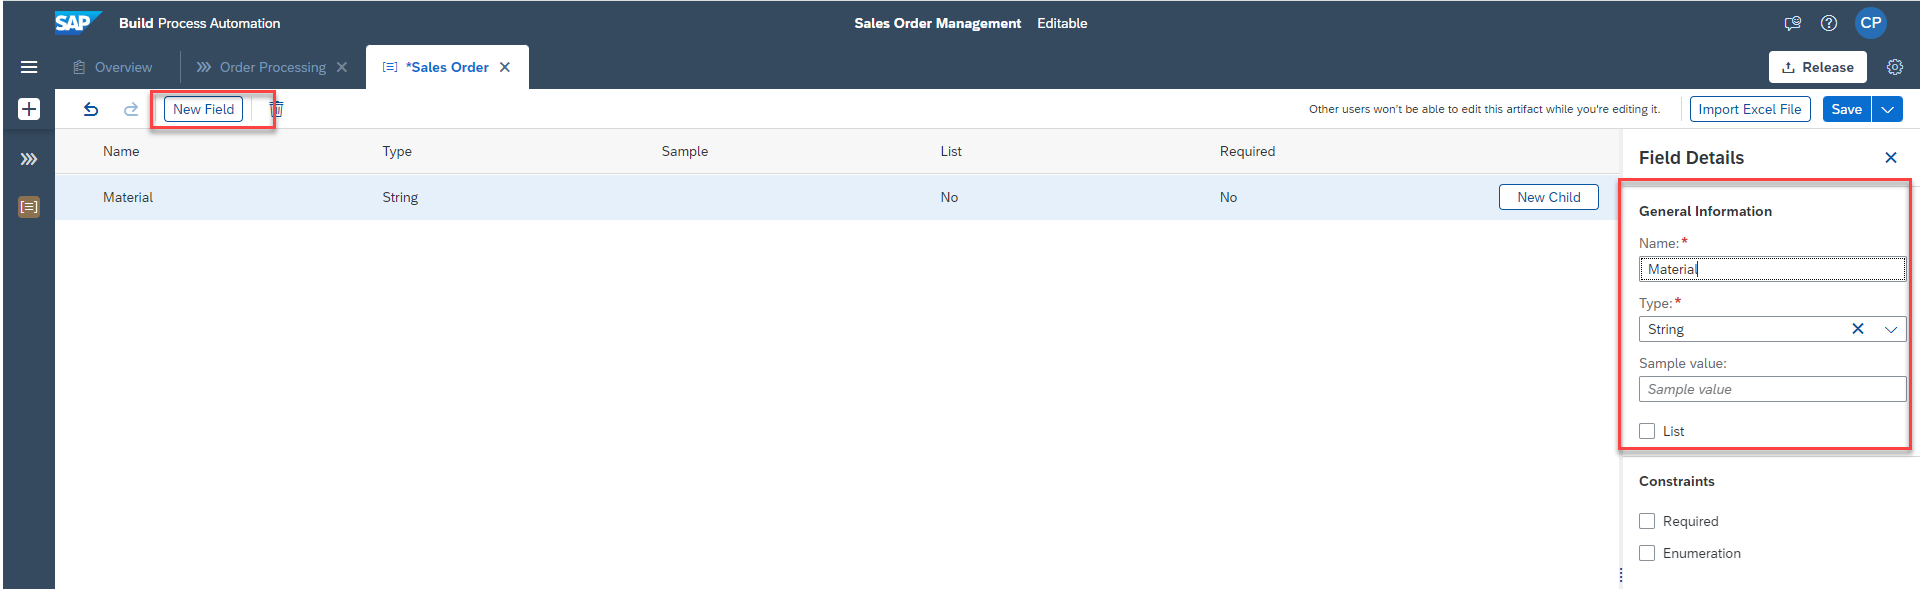
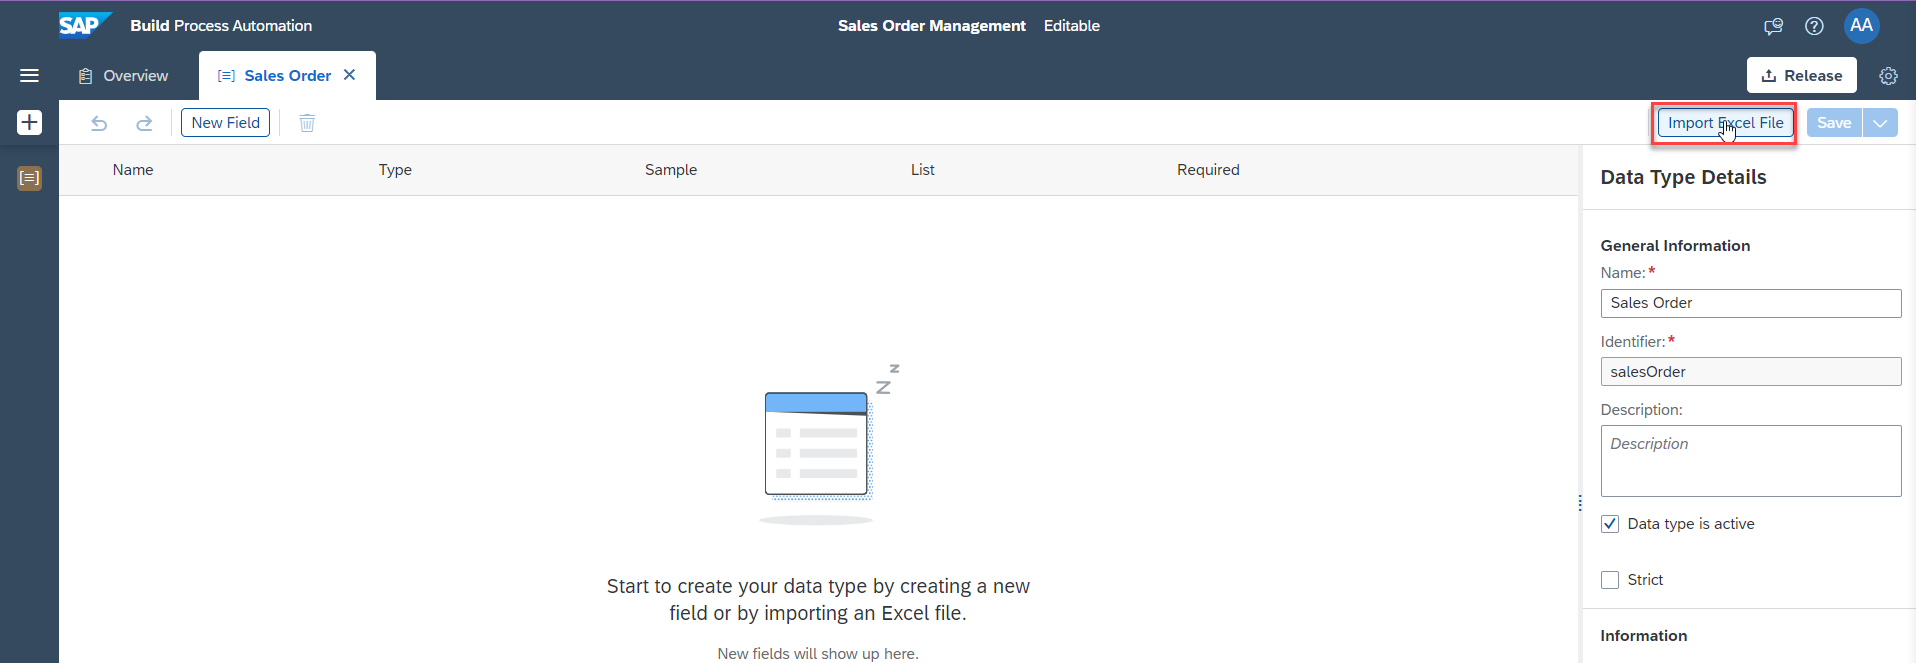
spa academy salesorder changes

diff --git a/tutorials/spa-academy-salesorder/spa-academy-salesorder.md b/tutorials/spa-academy-salesorder/spa-academy-salesorder.md
@@ -15,13 +15,13 @@ primary_tag: software-product>sap-build-process-automation
   - [Trial account](https://blogs.sap.com/2022/09/09/sap-process-automation-now-available-in-your-trail-account/) with the SAP Build Process Automation enabled **OR**
   - A regular account with [SAP BTP Free Tier](spa-subscribe-booster) service plan for SAP Build Process Automation
   - [Configure SMTP Destination](https://help.sap.com/docs/build-process-automation/sap-build-process-automation/configuring-smtp-mail-destination) to send mail notifications.
+  - Download the [this]() excel file for Sales Order datatype.
 
 
 ## You will learn
   - How to create a SAP Build Process Automation project
   - How to create a process that automates sales order creation and approval
   - How create an API trigger to integrate with any applications like SAP Build Apps, CAP etc.
-  - How to use Decisions artifact.
   - How to send an Email notification.
 
 ---
@@ -95,26 +95,18 @@ There are many use cases where you can make a difference using SAP Build Process
 
     <!-- border -->![6.1](6.1.png)
 
-3. Click on **New Field** to add new fields to the data type **Sales Order**.
+3. Click on **Import Excel File**.
 
     <!-- border -->![6.2](6.2.png)
 
+3. Click on **Browse** to select the excel file.
 
-4.  Repeat the process to add all the fields of the type as shown below.
+    <!-- border -->![6.4](6.4.png)
 
-    |  Field Name   | Type
-    |  :------------- | :-------------
-    |  `material`   | String  |
-    |  `orderAmount`     | Number |
-    |  `shipToParty`    | String|
-    |  `salesOrderType`    | String|
-    |  `salesOrganisation`    | String|
-    |  `distributionChannel`  | String|
-    |  `shippingCountry`    | String|
-    |  `expectedDeliveryDate`  | Date|
-    |  `division`  | String |
+3. Select **Import an Excel File**.
 
-    >**IMPORTANT:** The spelling and casing of the fields, as well as any extra spaces, is crucial because the API to trigger the process will require the fields exactly as written.
+    <!-- border -->![6.5](6.5.png)
+
 
     Your final data type looks as below.
 
